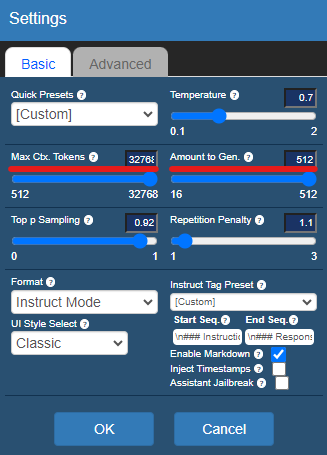
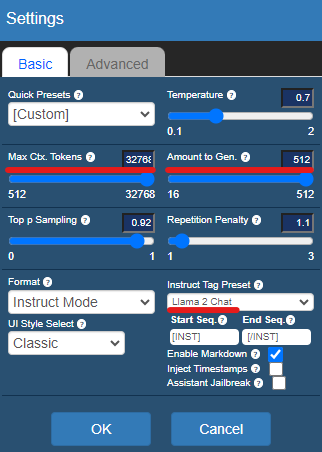
`Instruct Tag Preset`: `Llama 2 Chat`

diff --git a/README.md b/README.md
@@ -22,6 +22,7 @@ EasyLightChatAssistant は軽量で検閲や規制のないローカル日本語
 1. Web ブラウザに `Kobold AI Lite` が表示されましたら、画面上部の `Settings` から KoboldCpp の初期設定をします。
 	- `Max Ctx. Tokens`: `32768`
 	- `Amount to Gen.`: `512`
+	- `Instruct Tag Preset`: `Llama 2 Chat`  
 	![](./img/Settings.png)
 
 ## Instruct モードでお試し
@@ -37,7 +38,7 @@ KoboldCpp には様々なモードがありますが、今回は Instruct モー
 1. 出力欄を直接編集して、続きを書かせたい文章を記入します。
 1. 右下の `Generate More` で続きの文章が生成されます。
 
-**`{{[INPUT]}}`, `{{[OUTPUT]}}` や `[INST]`, `[/INST]` といった指示タグが残っていると、私の手元では返答が英語になってしまっているため、指示タグを削除しています。**
+**`{{[INPUT]}}` と `{{[OUTPUT]}}` が残っていると、私の手元では返答が英語になってしまっているため、削除しています。**
 
 ![](./img/Generate.png)
 
